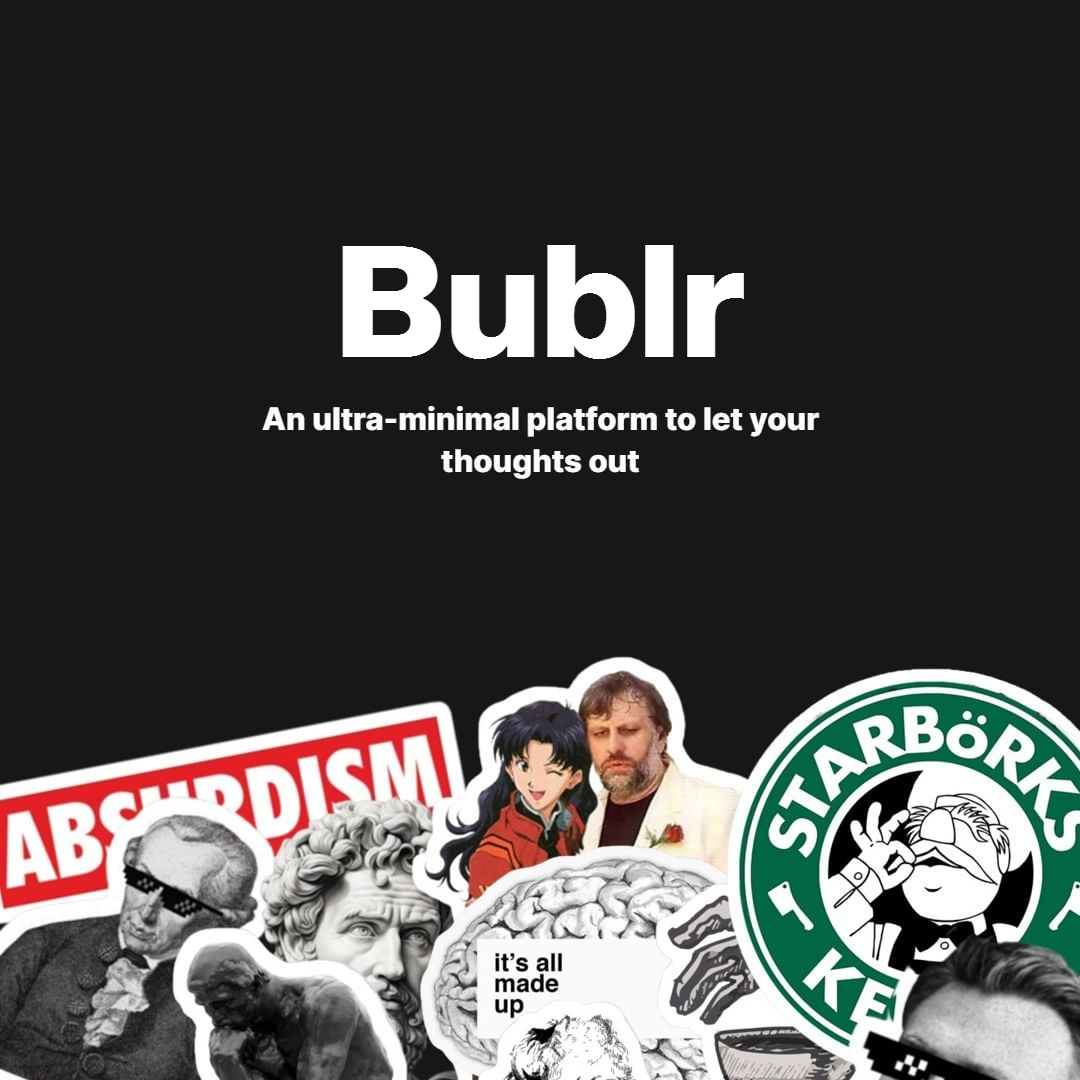
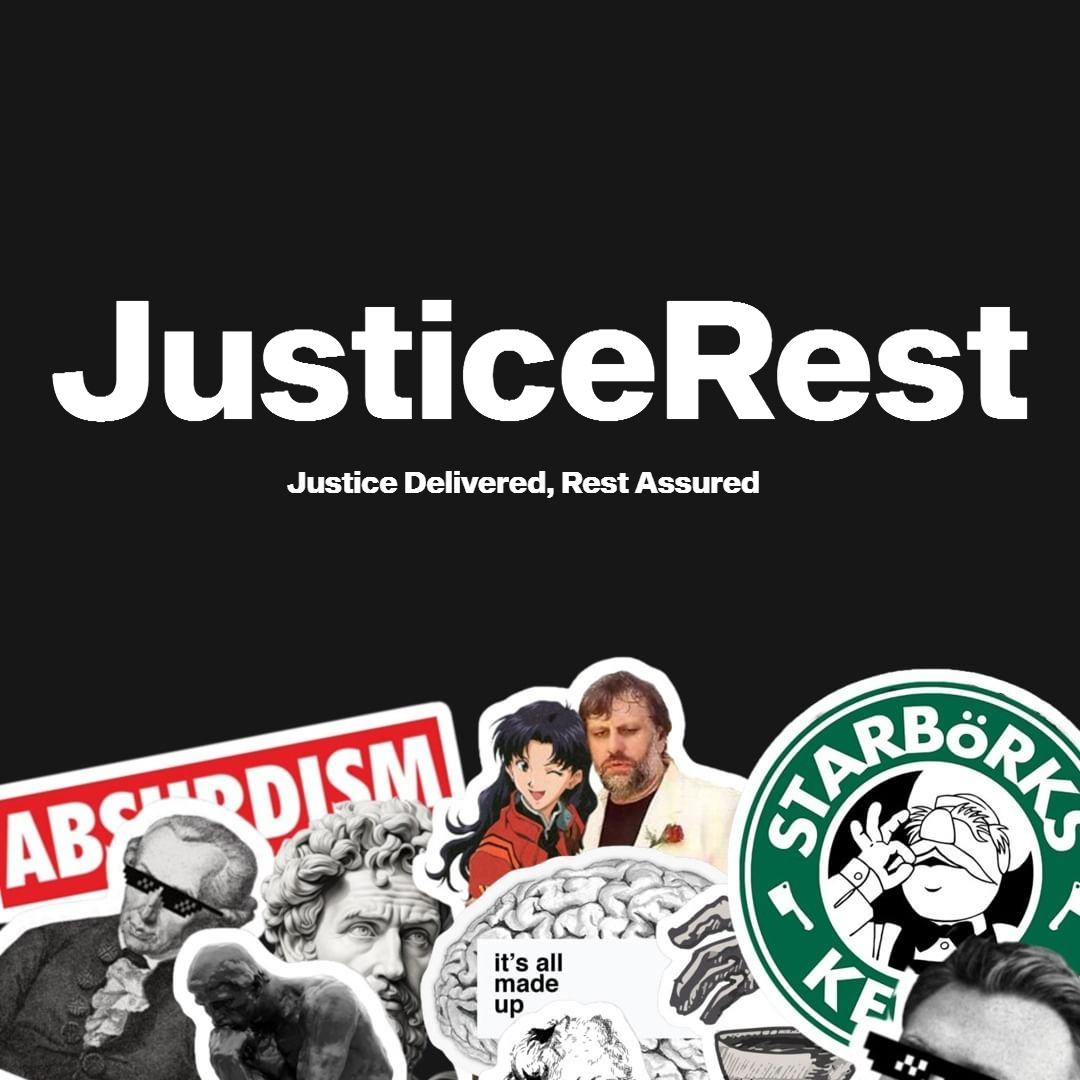
Hello! Mom

Changed region(s): [[0.0306, 0.2139, 0.9778, 0.4583]]

diff --git a/src/pages/index.js b/src/pages/index.js
@@ -40,7 +40,7 @@ css={css`
               width: 120px;
               height: 120px;
 
-              background-image: url('/images/logo-2.png');
+              background-image: url('/images/lg.png');
               background-position: center;
               background-repeat: no-repeat;
               background-size: contain;
@@ -53,7 +53,7 @@ css={css`
           margin-bottom: 1.5rem;
         `}
       >
-        Bublr
+        JusticeRest
       </h1>
       <ul
         css={css`
@@ -141,9 +141,9 @@ Home.getLayout = function HomeLayout(page) {
     <Container maxWidth="420px">
       <Head>
         {meta({
-          title: 'Bublr',
+          title: 'JusticeRest',
           description:
-            'An ultra-minimal platform to let your thoughts out~',
+            'A platform to speak up, seek change, and inspire justice.~',
           url: '/',
           image: '/images/socials.jpg',
         })}

diff --git a/src/pages/dashboard/index.js b/src/pages/dashboard/index.js
@@ -66,7 +66,7 @@ export default function Dashboard() {
 
        {/*Adds a new Link to the Contact Page*/}
 
-        <Link href="https://linktr.ee/bublr">
+        <Link href="https://linktr.ee/JusticeRest">
           Contact
         </Link>
 
@@ -149,7 +149,7 @@ export default function Dashboard() {
             `}
           ></Search>
           
-          <Link href="https://bublr.life/solomonlijo/guideofbublr">
+          <Link href="https://justice.rest/solomon/jr">
             <Button
               outline
               css={css`
@@ -285,7 +285,7 @@ Dashboard.getLayout = function DashboardLayout(page) {
       `}
     >
       <Head>
-        <title>Dashboard / Bublr</title>
+        <title>Dashboard / JusticeRest</title>
       </Head>
       {page}
     </Container>

diff --git a/src/pages/dashboard/[pid].js b/src/pages/dashboard/[pid].js
@@ -304,7 +304,7 @@ function Editor({ post }) {
       <Head>
         <title>
           {clientPost.title
-            ? `Editing post: ${clientPost.title} / Bublr`
+            ? `Editing post: ${clientPost.title} / JusticeRest`
             : 'Editing...'}
         </title>
         <link
@@ -522,7 +522,7 @@ function Editor({ post }) {
                   rel="noreferrer"
                   href={`/${userdata.name}/${post.slug}`}
                 >
-                  bublr.life/{userdata.name}/{post.slug}
+                  justice.rest/{userdata.name}/{post.slug}
                 </a>
               </p>
             ) : (

diff --git a/src/pages/dashboard/list.js b/src/pages/dashboard/list.js
@@ -155,7 +155,7 @@ ReadingList.getLayout = function ReadingListLayout(page) {
       `}
     >
       <Head>
-        <title>Reading List / Bublr</title>
+        <title>Reading List / JusticeRest</title>
         <link
           href="https://fonts.googleapis.com/css2?family=Newsreader:ital,wght@0,400;0,600;1,400;1,600&display=swap"
           rel="stylesheet"

diff --git a/src/pages/[username]/index.js b/src/pages/[username]/index.js
@@ -21,7 +21,7 @@ export default function Profile({ user }) {
     <Container maxWidth="640px">
       <Head>
         {meta({
-          title: `${user.displayName} (@${user.name}) / Bublr`,
+          title: `${user.displayName} (@${user.name}) / JusticeRest`,
           description: user.about,
           url: `/${user.name}`,
           image: user.photo,

diff --git a/src/components/profile-settings-modal.js b/src/components/profile-settings-modal.js
@@ -140,7 +140,7 @@ function Editor({ user }) {
       >
         See your profile live at:{' '}
         <a target="_blank" rel="noreferrer" href={`/${user.name}`}>
-          bublr.life/{user.name}
+          justice.rest/{user.name}
         </a>
           <br/>
           <br/>
